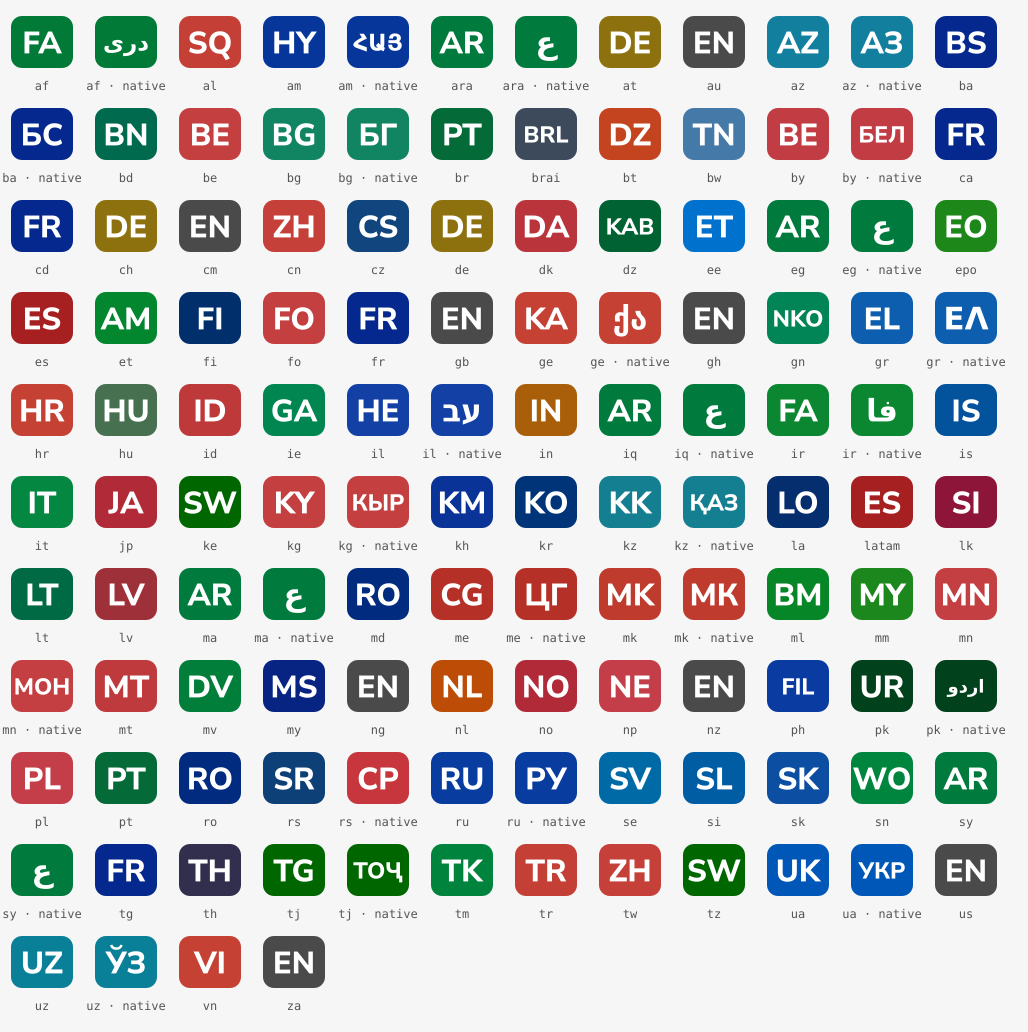
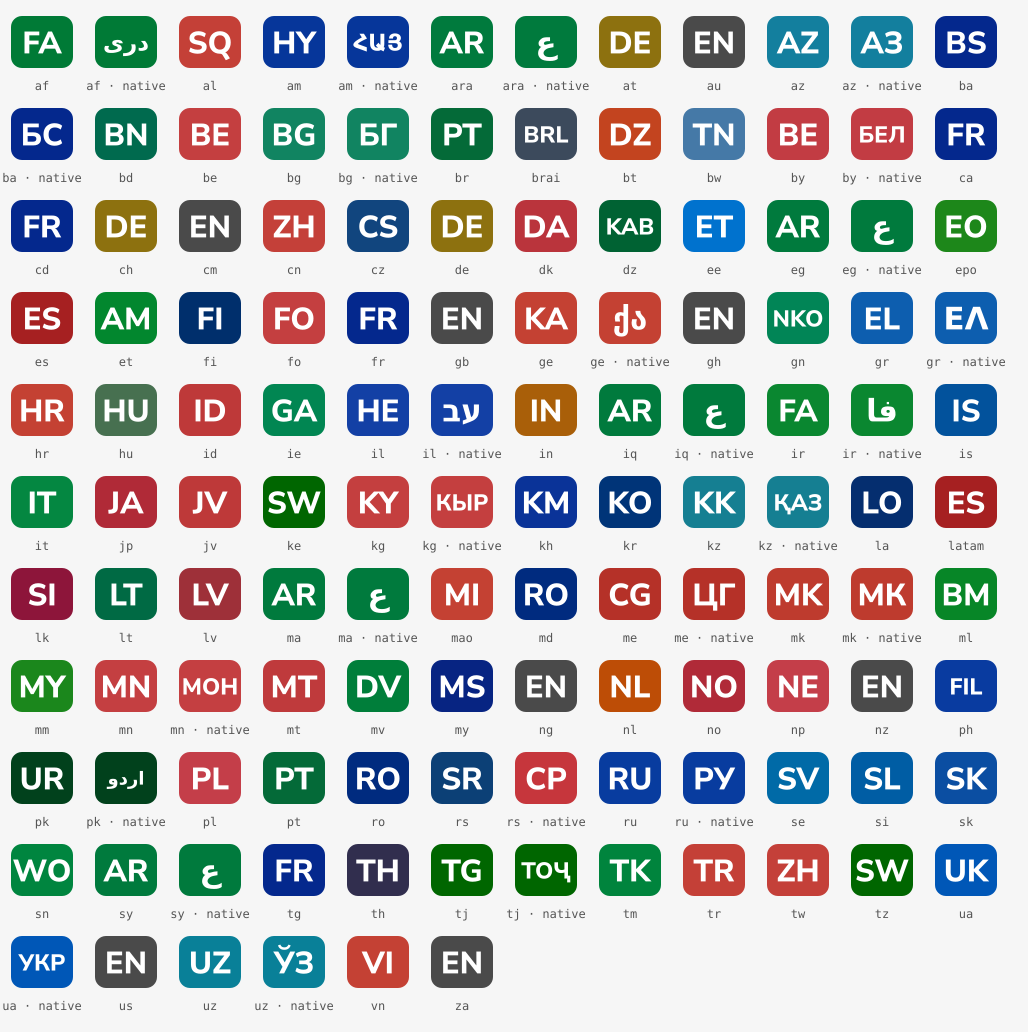
Add badges for Maori and Javanese
xkeyboard-config 2.38 (Debian bookworm) still lists mao and jv as base
layouts.

Changed region(s): [[0.0, 0.4341, 0.9961, 0.9922], [0.5914, 0.5581, 0.716, 0.5891], [0.4358, 0.5581, 0.4669, 0.5891]]

diff --git a/src/layouts.c b/src/layouts.c
@@ -59,6 +59,7 @@ const struct layout_style layout_styles[] = {
 	{ "is",     "IS",   0x02529c, NULL,        0x02529c, NULL,   0xc43f43 },
 	{ "it",     "IT",   0x048741, NULL,        0x048741, NULL,   0xc33e41 },
 	{ "jp",     "JA",   0xb02a37, NULL,        0xb02a37, NULL,   0x56606e },
+	{ "jv",     "JV",   0xbe3939, NULL,        0xbe3939, NULL,   0x56606e },
 	{ "ke",     "SW",   0x006600, NULL,        0x006600, NULL,   0xaf2b20 },
 	{ "kg",     "KY",   0xc43f3f, "КЫР",       0xc43f3f, NULL,   0x7f770d },
 	{ "kh",     "KM",   0x0a3398, NULL,        0x0a3398, NULL,   0xc43f3e },
@@ -70,6 +71,7 @@ const struct layout_style layout_styles[] = {
 	{ "lt",     "LT",   0x006a44, NULL,        0x006a44, NULL,   0xba3535 },
 	{ "lv",     "LV",   0x9e3039, NULL,        0x9e3039, NULL,   0x56606e },
 	{ "ma",     "AR",   0x007a3d, "ع",         0x007a3d, NULL,   0xba3535 },
+	{ "mao",    "MI",   0xc44133, NULL,        0xc44133, NULL,   0x3a3a3a },
 	{ "md",     "RO",   0x002b7f, NULL,        0x002b7f, NULL,   0xbc363e },
 	{ "me",     "CG",   0xb53128, "ЦГ",        0xb53128, NULL,   0x8d710e },
 	{ "mk",     "MK",   0xbe3b2e, "МК",        0xbe3b2e, NULL,   0x837607 },

diff --git a/CHANGELOG.md b/CHANGELOG.md
@@ -6,7 +6,7 @@ First public release.
 
 - Shows the active keyboard layout as a coloured badge in any StatusNotifierItem tray, such as wf-panel-pi.
 - Left click switches to the next layout, right click to the previous one, middle click back to the first.
-- Labels and flag-based colours for all 98 standard xkb layouts, labels in the layout's own script where common
+- Labels and flag-based colours for all standard xkb layouts, labels in the layout's own script where common
   fonts cover it (СР, РУ, ΕΛ, עב, ქა), and automatic handling of look-alikes (US/UK, EN/DV, SR1/SR2).
 - Switching uses the dedicated "next layout" key, so it works whatever layout shortcut is configured.
 - Debian packages for arm64, armhf and amd64, and a one-line installer.

diff --git a/README.md b/README.md
@@ -9,7 +9,7 @@ compositor of Raspberry Pi OS. It shows the active layout as a coloured badge an
   badge updates within milliseconds.
 - **Click to switch.** Left click goes to the next layout, right click to the previous one, middle click back to
   the first.
-- **A badge for every layout.** All 98 standard xkb layouts have a hand-picked label and a colour taken from their
+- **A badge for every layout.** All standard xkb layouts have a hand-picked label and a colour taken from their
   flag, toned down so white text stays readable. Layouts that type a non-Latin script are labelled in that script:
   СР, РУ, ΕΛ, עב, ქა.
 - **No changes to the compositor.** Works with stock labwc and any StatusNotifierItem tray.
